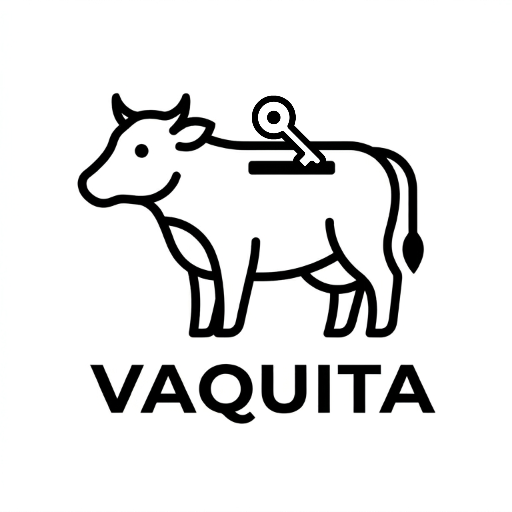
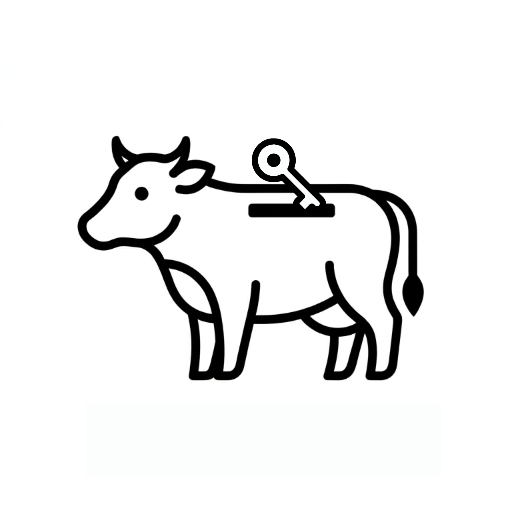
feat: rename app to Vaquita and update branding assets

Changed region(s): [[0.125, 0.1875, 0.8438, 0.8438]]

diff --git a/src/components/layout/AppLayout.tsx b/src/components/layout/AppLayout.tsx
@@ -3,7 +3,7 @@ import { NavLink, Outlet } from "react-router-dom";
 import { cn } from "@/lib/utils";
 import { useAuth } from "@/context/useAuth";
 import { useTheme } from "@/hooks/useTheme";
-import { APP_LOGO_URL } from "@/constants/branding";
+import { getAppLogoUrl } from "@/constants/branding";
 
 const mainNav = [
   { to: "/transactions", icon: "≡", label: "Registros" },
@@ -31,6 +31,8 @@ export default function AppLayout() {
   const { isDark, toggleTheme } = useTheme();
   const [sidebarOpen, setSidebarOpen] = useState(false);
 
+  const appLogoUrl = getAppLogoUrl(isDark);
+
   const initials = getUserInitials(user?.display_name);
   const displayName = user?.display_name ?? user?.email ?? "";
 
@@ -55,8 +57,8 @@ export default function AppLayout() {
         {/* Logo */}
         <div className="px-5 pb-7 border-b border-border/50 mb-4">
           <img
-            src={APP_LOGO_URL}
-            alt="Expenses Tracker logo"
+            src={appLogoUrl}
+            alt="Vaquita logo"
             className="h-20 w-20 rounded-2xl object-cover"
           />
         </div>
@@ -164,8 +166,8 @@ export default function AppLayout() {
       {/* Mobile header */}
       <header className="md:hidden fixed top-0 left-0 right-0 h-12 bg-card border-b border-border flex items-center justify-between px-4 z-[200]">
         <img
-          src={APP_LOGO_URL}
-          alt="Expenses Tracker logo"
+          src={appLogoUrl}
+          alt="Vaquita logo"
           className="h-8 w-8 rounded-lg object-cover"
         />
         <div className="flex gap-2 items-center">

diff --git a/src/pages/LoginPage.tsx b/src/pages/LoginPage.tsx
@@ -1,10 +1,13 @@
 import { Navigate } from "react-router-dom";
 import { GoogleLogin } from "@react-oauth/google";
 import { useAuth } from "../context/useAuth";
-import { APP_LOGO_URL } from "@/constants/branding";
+import { getAppLogoUrl } from "@/constants/branding";
+import { useTheme } from "@/hooks/useTheme";
 
 export default function LoginPage() {
   const { user, isLoading, login, loginDev, isDevAuthEnabled } = useAuth();
+  const { isDark } = useTheme();
+  const appLogoUrl = getAppLogoUrl(isDark);
 
   if (isLoading) {
     return (
@@ -23,11 +26,11 @@ export default function LoginPage() {
       <div className="w-full max-w-sm rounded-xl border border-border bg-card p-6 sm:p-7 text-center shadow-xs space-y-5">
         <div className="space-y-1.5">
           <img
-            src={APP_LOGO_URL}
-            alt="Expenses Tracker logo"
+            src={appLogoUrl}
+            alt="Vaquita logo"
             className="mx-auto h-20 w-20 rounded-2xl object-cover"
           />
-          <h1 className="text-2xl font-serif font-medium">Expenses Tracker</h1>
+          <h1 className="text-2xl font-serif font-medium">Vaquita</h1>
           <p className="text-sm text-muted-foreground">Iniciá sesión con tu cuenta de Google</p>
         </div>
 

diff --git a/index.html b/index.html
@@ -8,7 +8,7 @@
     <link rel="apple-touch-icon" sizes="180x180" href="/apple-touch-icon.png" />
     <link rel="manifest" href="/site.webmanifest" />
     <meta name="viewport" content="width=device-width, initial-scale=1.0" />
-    <title>Expenses Tracker App</title>
+    <title>Vaquita</title>
   </head>
   <body>
     <div id="root"></div>

diff --git a/src/constants/branding.ts b/src/constants/branding.ts
@@ -1,1 +1,6 @@
-export const APP_LOGO_URL = "/app-logo.png";
+export const APP_LOGO_LIGHT_URL = "/app-logo.png";
+export const APP_LOGO_DARK_URL = "/app-logo-dark.png";
+
+export function getAppLogoUrl(isDark: boolean): string {
+	return isDark ? APP_LOGO_DARK_URL : APP_LOGO_LIGHT_URL;
+}
